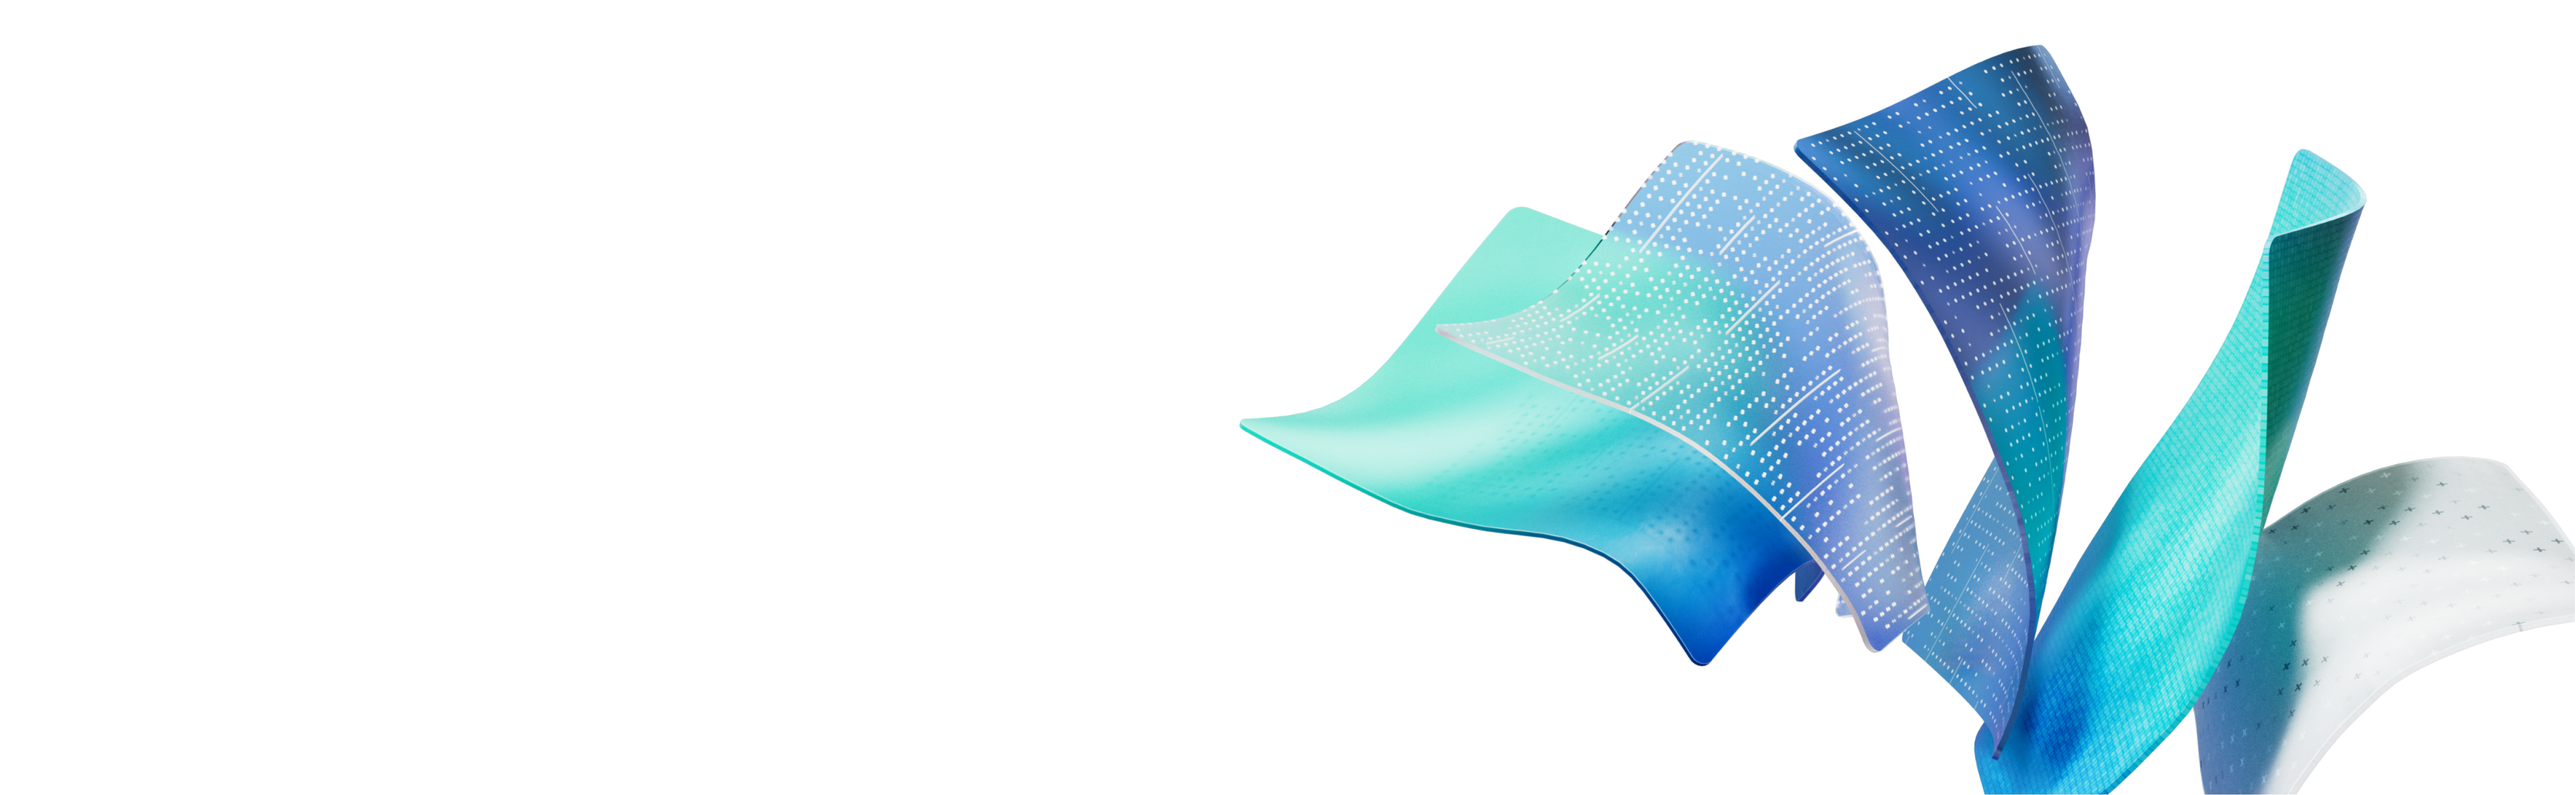
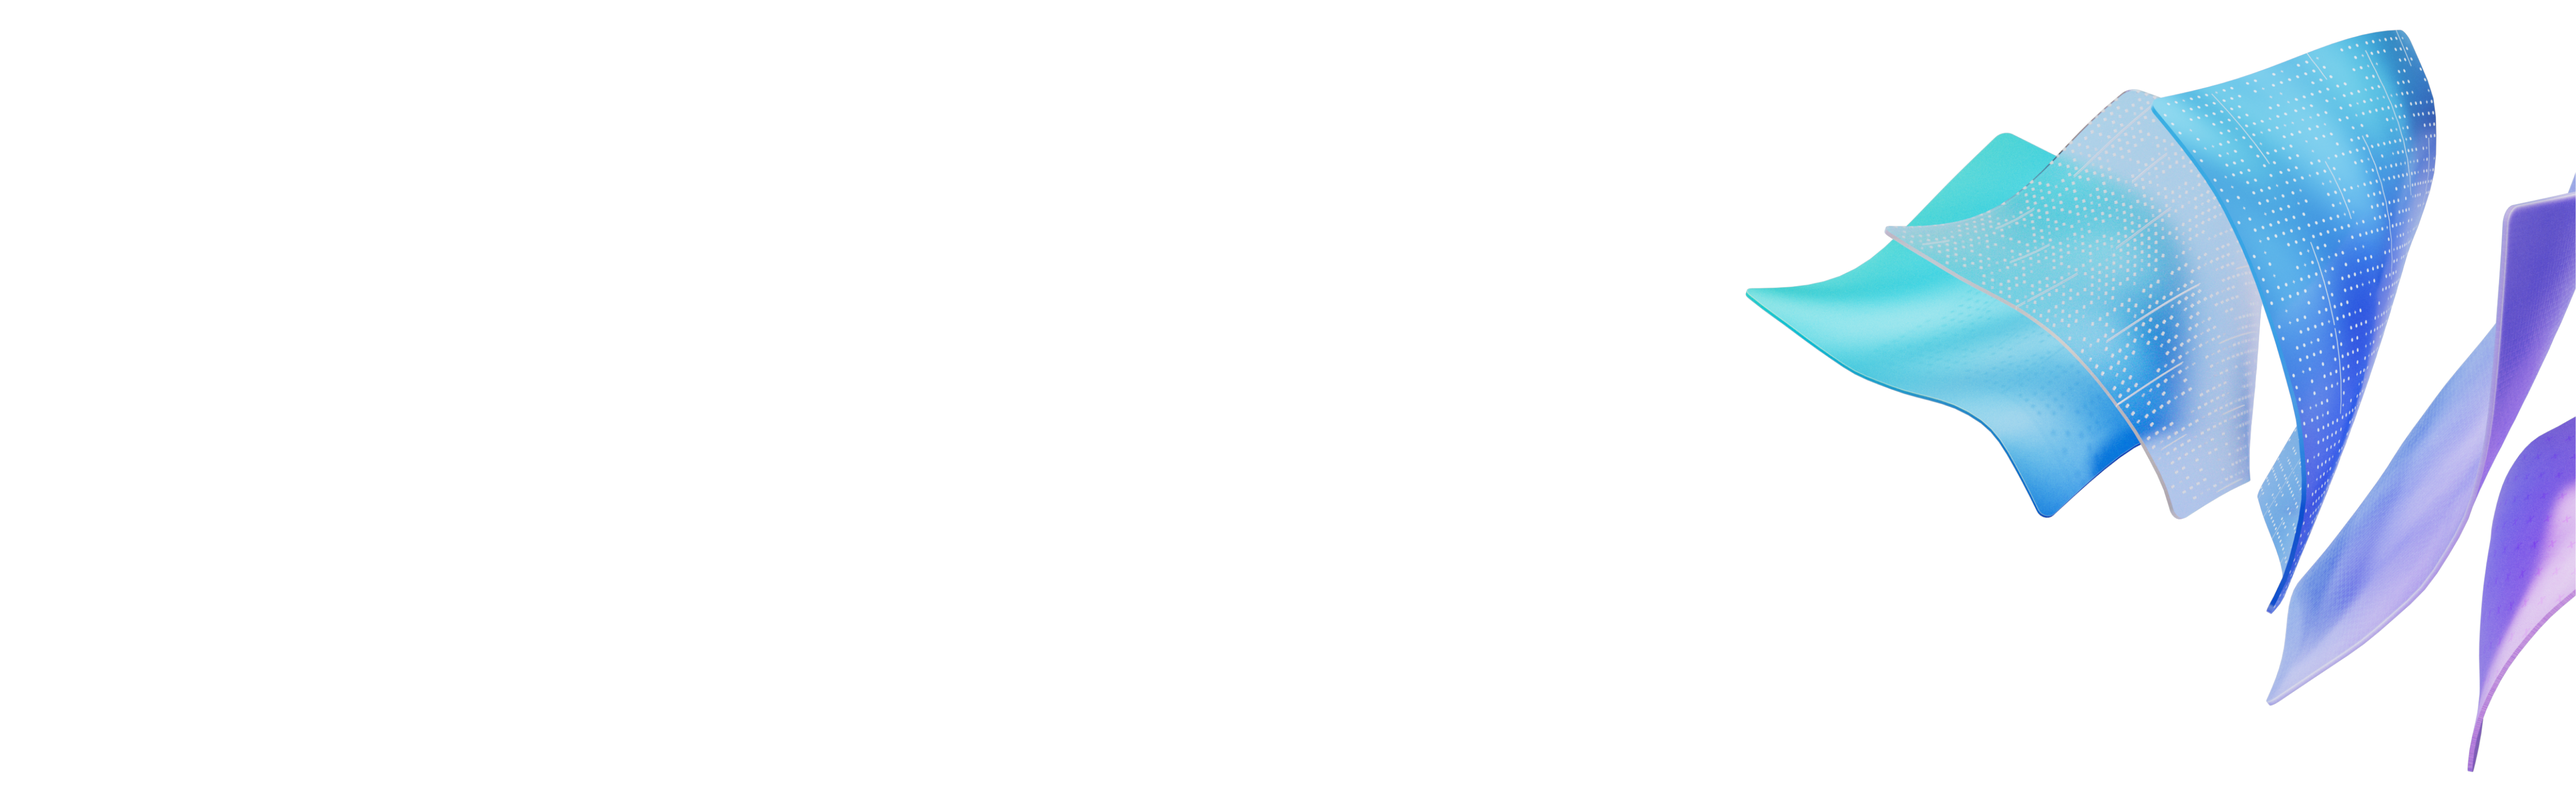
add rest of light theme assets

Changed region(s): [[0.4688, 0.0307, 1.0, 1.0]]

diff --git a/src/Views/WhatsNewPage.xaml b/src/Views/WhatsNewPage.xaml
@@ -19,13 +19,19 @@
                     <x:String x:Key="BackgroundFront">/Assets/WhatsNewPage/LightTheme/BackgroundFront.png</x:String>
                     <x:String x:Key="BackgroundBack">/Assets/WhatsNewPage/LightTheme/BackgroundBack.png</x:String>
                     <x:String x:Key="BackgroundShadow">/Assets/WhatsNewPage/LightTheme/BackgroundShadow.png</x:String>
+                    <x:String x:Key="DashboardHero">/Assets/WhatsNewPage/LightTheme/DashboardHero.png</x:String>
                     <Color x:Key="CardBackground">#fdfdfd</Color>
+                    <Color x:Key="ButtonAccentBackground">#6659CA</Color>
+                    <Color x:Key="ButtonAccentForeground">#FFFFFF</Color>
                 </ResourceDictionary>
                 <ResourceDictionary x:Key="Dark">
                     <x:String x:Key="BackgroundFront">/Assets/WhatsNewPage/DarkTheme/BackgroundFront.png</x:String>
                     <x:String x:Key="BackgroundBack">/Assets/WhatsNewPage/DarkTheme/BackgroundBack.png</x:String>
                     <x:String x:Key="BackgroundShadow">/Assets/WhatsNewPage/DarkTheme/BackgroundShadow.png</x:String>
+                    <x:String x:Key="DashboardHero">/Assets/WhatsNewPage/DarkTheme/DashboardHero.png</x:String>
                     <Color x:Key="CardBackground">#323232</Color>
+                    <Color x:Key="ButtonAccentBackground">#47E1DA</Color>
+                    <Color x:Key="ButtonAccentForeground">#000000</Color>
                 </ResourceDictionary>
             </ResourceDictionary.ThemeDictionaries>
         </ResourceDictionary>
@@ -76,8 +82,7 @@
                         <Button
                             Margin="0 16"
                             MinWidth="258"
-                            Background="#47E1DA"
-                            Foreground="#000000"
+                            Background="{ThemeResource ButtonAccentBackground}"
                             Click="MachineConfigButton_Click"
                             x:Uid="WhatsNewPage_GetStartedButton" />
                         
@@ -95,21 +100,21 @@
                         <models:WhatsNewCard 
                             x:Uid="WhatsNewPage_DevDashCard"
                             x:Key="WhatsNewPage_DevDashCard"
-                            Image="/Assets/WhatsNewPage/DashboardHero.png"
+                            Image=""
                             PageKey="DevHome.Dashboard.ViewModels.DashboardViewModel"
                             Priority="0" />
 
                         <models:WhatsNewCard 
                             x:Uid="WhatsNewPage_DevIdCard"
                             x:Key="WhatsNewPage_DevIdCard"
-                            Image="/Assets/WhatsNewPage/DevIdHero.png"
+                            Image=""
                             PageKey="DevHome.Settings.ViewModels.AccountsViewModel"
                             Priority="1" />
                         
                         <models:WhatsNewCard 
                             x:Uid="WhatsNewPage_DevDriveCard"
                             x:Key="WhatsNewPage_DevDriveCard"
-                            Image="/Assets/WhatsNewPage/DevDriveHero.png"
+                            Image=""
                             PageKey="ms-settings:disksandvolumes"
                             Priority="2" />
                         

diff --git a/src/Models/WhatsNewCard.cs b/src/Models/WhatsNewCard.cs
@@ -1,6 +1,8 @@
 // Copyright (c) Microsoft Corporation and Contributors
 // Licensed under the MIT license.
 
+using Windows.Web.AtomPub;
+
 namespace DevHome.Models;
 public class WhatsNewCard
 {
